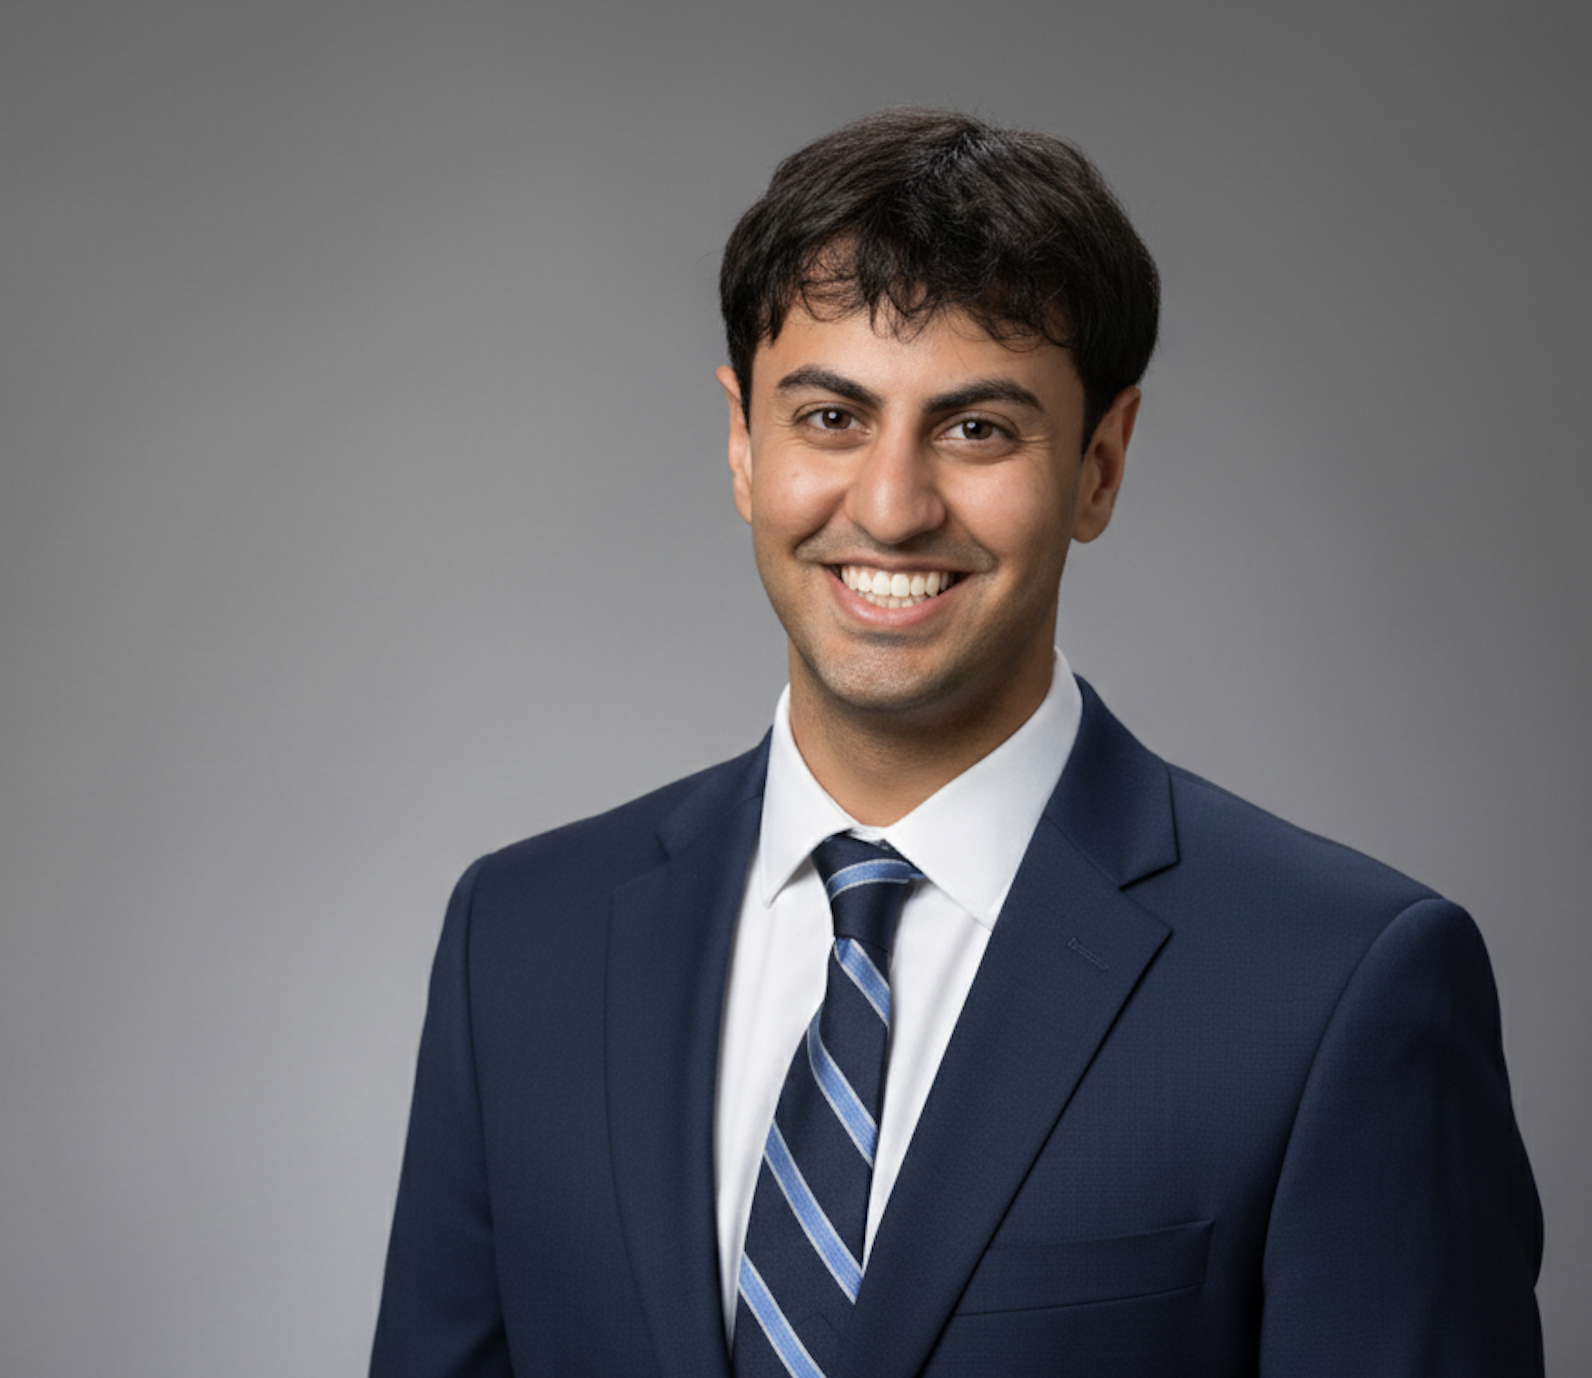
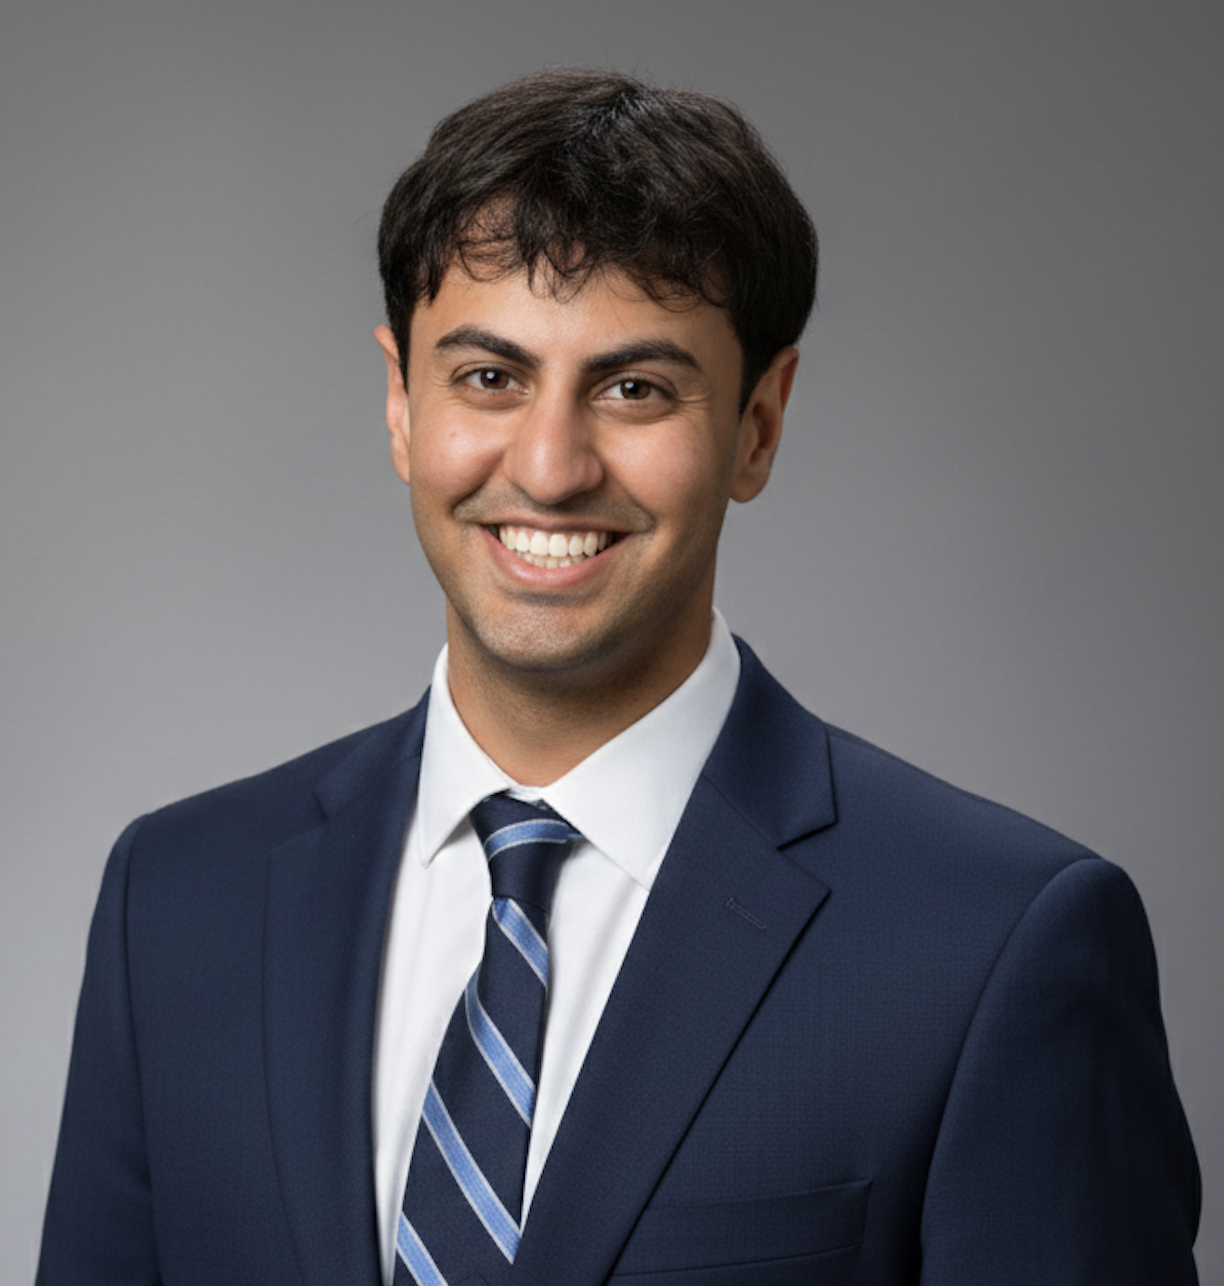
Updates

diff --git a/research.html b/research.html
@@ -35,6 +35,7 @@
                 <ul class="menu">
                     <li><a href="https://talalkhan1999.github.io/" class="page-link">Home</a></li>
                     <li class="current"><a href="research.html" class="page-link">Research</a></li>
+                    <li><a href="policy.html" class="page-link">Policy Work</a></li>
                     <li><a href="teaching.html" class="page-link">Teaching</a></li>
                 </ul>
             </div>
@@ -149,34 +150,6 @@
 
         <h5 style="margin-bottom: 10px;">
             <a href="./website_files/paradise/Non_Local_Buyers_Real_Estate.pdf"
-               class="pub-link-button pdf-link" target="_blank">
-                PDF
-            </a>
-        </h5>
-    </div>
-</div>
-
-<!-- Working Paper 2 -->
-<div class="paper-container">
-    <div>
-        <img class="rounded-image"
-             src="./website_files/teaching_ai_an/ai_an.png"
-             alt="Teaching strategies and key issues in American Indian and Alaskan Native education">
-    </div>
-
-    <div>
-        <h4 style="font-weight: 400;">
-            Teaching strategies and key issues in American Indian and Alaskan Native Education
-        </h4>
-
-        <h5>
-            <u>Muhammad Talal Khan</u> &amp; Sakiko Ikoma
-        </h5>
-
-        <h5><b>Working Paper</b></h5>
-
-        <h5 style="margin-bottom: 10px;">
-            <a href="./website_files/teaching_ai_an/stm_ai_an.pdf"
                class="pub-link-button pdf-link" target="_blank">
                 PDF
             </a>

diff --git a/index.html b/index.html
@@ -46,6 +46,7 @@
                     <ul class="menu">
                         <li><a href="https://talalkhan1999.github.io/" class="page-link">Home</a></li>
                         <li><a href="research.html" class="page-link">Research</a></li>
+                        <li><a href="policy.html" class="page-link">Policy Work</a></li>
                         <li><a href="teaching.html" class="page-link">Teaching</a></li>
                     </ul>
                 </div>
@@ -159,7 +160,15 @@ statewide sustainability initiatives.
     <span class="news-content-text">🎤 AI and Business Conference, Florida Atlantic University</span>
 </div>
 
-
+<div class="styled-box">
+    <b>Dec 2025</b>
+    <span class="news-content-text">
+        🎙️ Media interview:
+        <a href="https://www.hawaiipublicradio.org/the-conversation/2025-12-29/how-sea-level-rise-impacts-property-values-island-by-island"
+           target="_blank">
+            How sea level rise impacts property values, island by island</a>, <i>Hawaiʻi Public Radio</i>
+    </span>
+</div>
 
 <div class="styled-box">
     <b>Nov 2025</b>
@@ -239,7 +248,4 @@ statewide sustainability initiatives.
 
 </body>
 </html>
-
-
-
 

diff --git a/website_files/main.css b/website_files/main.css
@@ -283,6 +283,14 @@ h1 {
     width: 330px;
 }
 
+.paper-container.policy-text-only {
+    display: block;
+}
+
+.paper-container.policy-text-only > div:first-child {
+    padding-right: 0;
+}
+
 /* ============================================
    PAGE CONTENT: RESEARCH.HTML - LINK BUTTONS
 ============================================ */